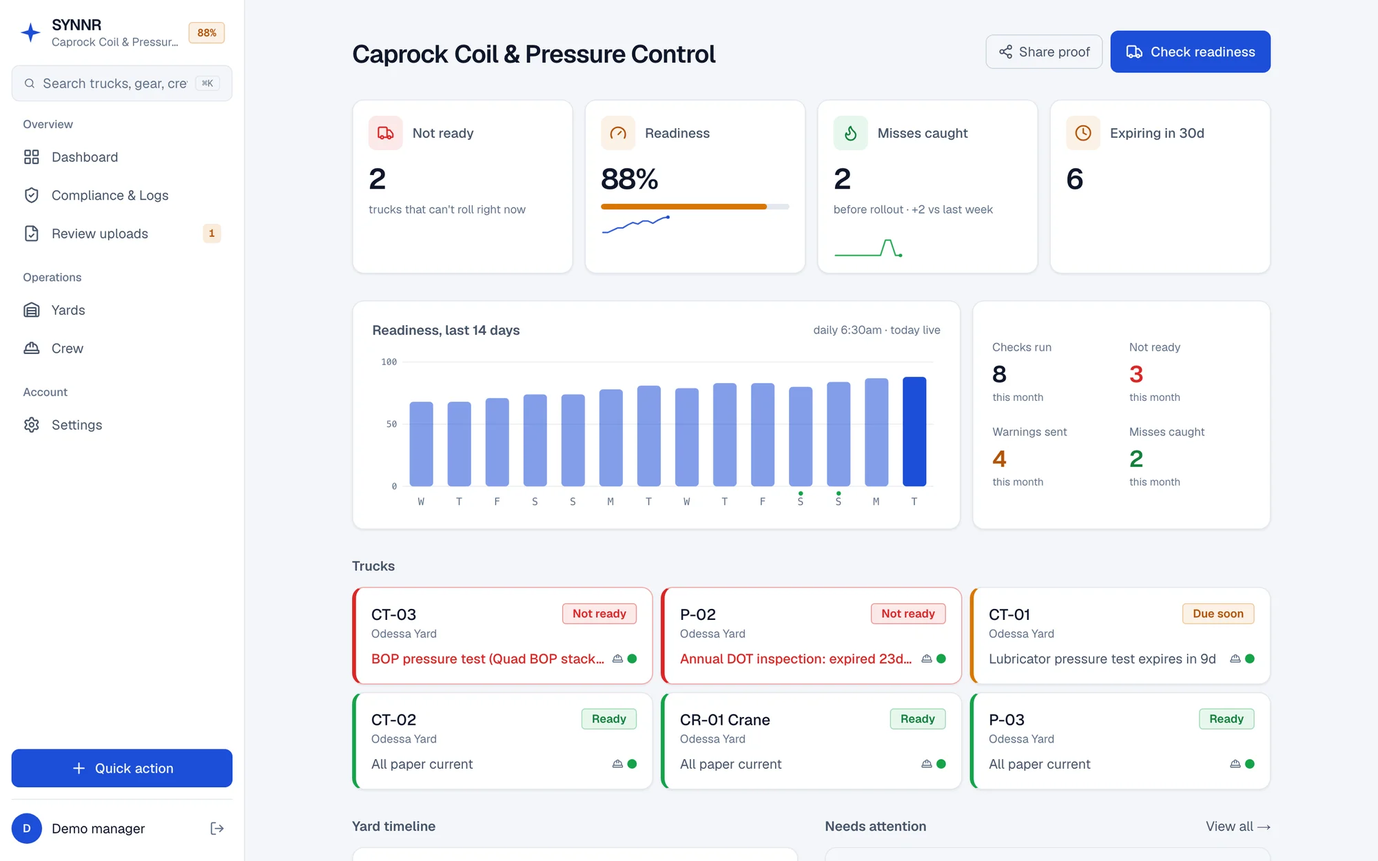
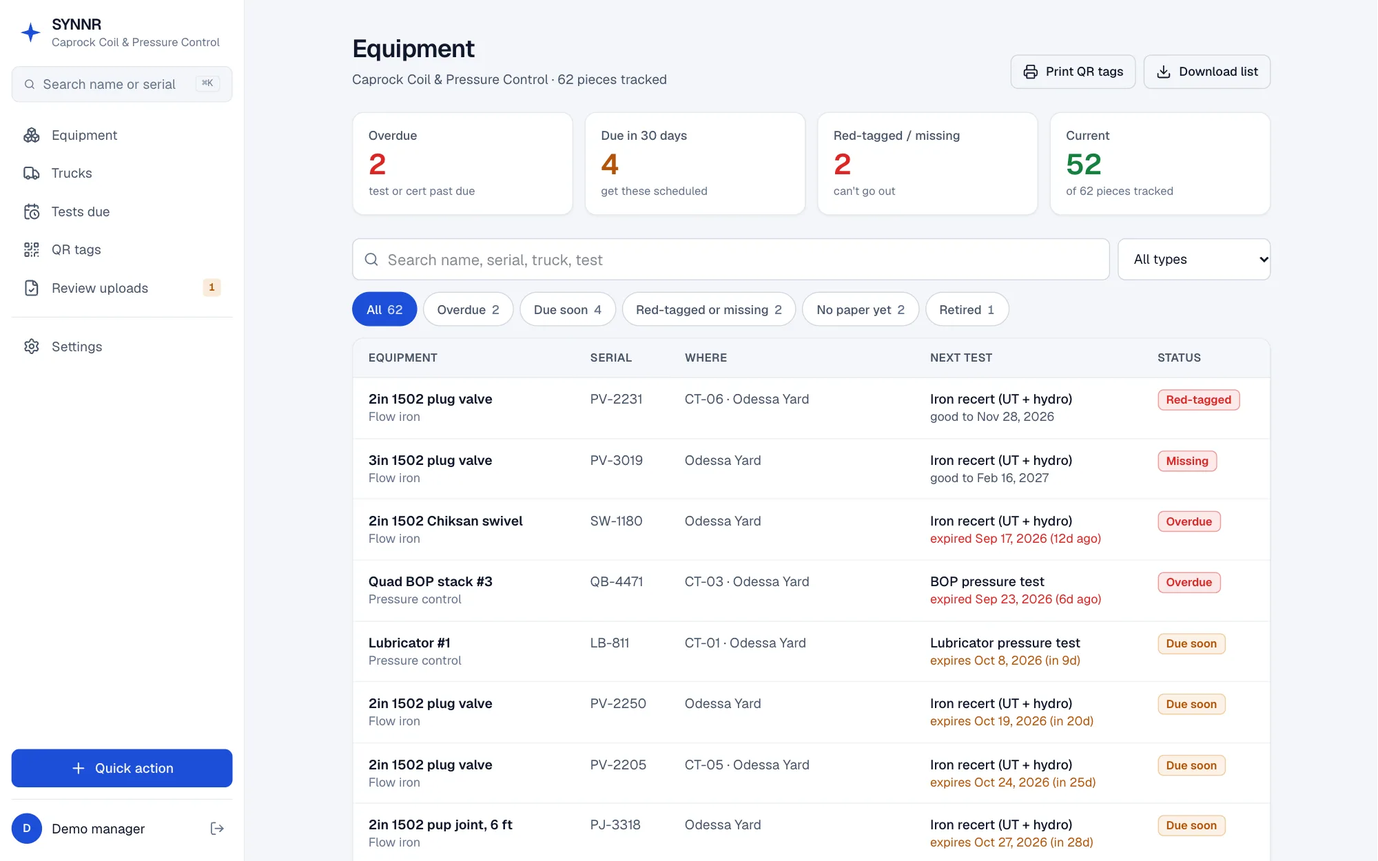
feat: marketing, demo, and share image say equipment, new screenshots
Homepage, one-pager, demo page, site metadata, and the share image now sell
equipment test tracking: every piece of iron with its serial, where it is,
its next test, QR tags, and move history. No crew cards anywhere.
New app screenshots of the equipment list. Import example is iron.
Tag page names the exact lapse.

diff --git a/app/marketing-html.ts b/app/marketing-html.ts
@@ -1,7 +1,8 @@
 import { OWNER_PHONE, OWNER_PHONE_TEL } from "@/lib/contact";
 
-// SYNNR homepage. One product (cert tracking that prevents NPT); readiness
-// checks, gear last-seen, and proof links ride along at the same price.
+// SYNNR homepage. One product: equipment test tracking that prevents NPT.
+// Every piece of iron, its serial, where it is, and its next test; QR tags,
+// move history, truck checks, and proof links ride along at the same price.
 // Navy top with the real app in a laptop and phone, light sections below.
 // Real screenshots only (public/screens, shot from /shot). The phone number
 // shows in the nav, the hero button, the founder note, the closing band, and
@@ -14,6 +15,8 @@ const ICON = {
   pin: `<svg viewBox="0 0 24 24" fill="none" stroke="currentColor" stroke-width="2" stroke-linecap="round" stroke-linejoin="round" aria-hidden="true"><path d="M20 10c0 4.99-5.54 10.19-7.4 11.8a1 1 0 0 1-1.2 0C9.54 20.19 4 14.99 4 10a8 8 0 0 1 16 0"/><circle cx="12" cy="10" r="3"/></svg>`,
   link: `<svg viewBox="0 0 24 24" fill="none" stroke="currentColor" stroke-width="2" stroke-linecap="round" stroke-linejoin="round" aria-hidden="true"><path d="M10 13a5 5 0 0 0 7.54.54l3-3a5 5 0 0 0-7.07-7.07l-1.72 1.71"/><path d="M14 11a5 5 0 0 0-7.54-.54l-3 3a5 5 0 0 0 7.07 7.07l1.71-1.71"/></svg>`,
   camera: `<svg viewBox="0 0 24 24" fill="none" stroke="currentColor" stroke-width="2" stroke-linecap="round" stroke-linejoin="round" aria-hidden="true"><path d="M14.5 4h-5L7 7H4a2 2 0 0 0-2 2v9a2 2 0 0 0 2 2h16a2 2 0 0 0 2-2V9a2 2 0 0 0-2-2h-3l-2.5-3z"/><circle cx="12" cy="13" r="3"/></svg>`,
+  qr: `<svg viewBox="0 0 24 24" fill="none" stroke="currentColor" stroke-width="2" stroke-linecap="round" stroke-linejoin="round" aria-hidden="true"><rect width="5" height="5" x="3" y="3" rx="1"/><rect width="5" height="5" x="16" y="3" rx="1"/><rect width="5" height="5" x="3" y="16" rx="1"/><path d="M21 16h-3a2 2 0 0 0-2 2v3"/><path d="M21 21v.01"/><path d="M12 7v3a2 2 0 0 1-2 2H7"/><path d="M3 12h.01"/><path d="M12 3h.01"/><path d="M12 16v.01"/><path d="M16 12h1"/><path d="M21 12v.01"/><path d="M12 21v-1"/></svg>`,
+  download: `<svg viewBox="0 0 24 24" fill="none" stroke="currentColor" stroke-width="2" stroke-linecap="round" stroke-linejoin="round" aria-hidden="true"><path d="M21 15v4a2 2 0 0 1-2 2H5a2 2 0 0 1-2-2v-4"/><path d="m7 10 5 5 5-5"/><path d="M12 15V3"/></svg>`,
   shield: `<svg viewBox="0 0 24 24" fill="none" stroke="currentColor" stroke-width="2" stroke-linecap="round" stroke-linejoin="round" aria-hidden="true"><path d="M20 13c0 5-3.5 7.5-7.66 8.95a1 1 0 0 1-.67-.01C7.5 20.5 4 18 4 13V6a1 1 0 0 1 1-1c2 0 4.5-1.2 6.24-2.72a1.17 1.17 0 0 1 1.52 0C14.51 3.81 17 5 19 5a1 1 0 0 1 1 1z"/></svg>`,
 };
 
@@ -55,26 +58,26 @@ export const MARKETING_HTML = `
 <section class="x-hero band-navy">
   <div class="container x-hero-grid">
     <div class="x-hero-copy">
-      <p class="x-kicker">Cert tracking for oilfield service yards</p>
+      <p class="x-kicker">Equipment test tracking for oilfield service yards</p>
       <h1>An expired lubricator cert cost us $8,000 on a major's location.</h1>
-      <p class="x-lede">Nobody knew until the company man checked the paper and turned the crew around at the gate. SYNNR watches every cert, DOT date, and crew card in your yard so that never happens again.</p>
+      <p class="x-lede">Nobody knew until the company man checked the paper and turned the crew around at the gate. SYNNR keeps every piece of iron in your yard on one list, with its serial, where it is, and when its next test is due, so that never happens again.</p>
       <div class="x-cta">
         <a href="/demo" class="btn btn-primary">Open the live demo</a>
         <a href="${OWNER_PHONE_TEL}" class="btn btn-ghost">Call or text ${OWNER_PHONE}</a>
       </div>
-      <p class="x-note">The demo is the real app loaded with made-up trucks. No signup, no card.</p>
+      <p class="x-note">The demo is the real app loaded with a made-up yard. No signup, no card.</p>
     </div>
     <div class="x-devices">
       <div class="x-laptop">
         <div class="x-laptop-screen">
           <img src="/screens/app-desktop.webp" width="2000" height="1250"
-            alt="SYNNR dashboard: two trucks not ready, readiness at 88%, a 14-day chart, and the truck board with CT-03 in red" fetchpriority="high"/>
+            alt="SYNNR equipment list: 62 pieces of iron with serials, where each one is, its next test, and a status. Two overdue, two red-tagged or missing." fetchpriority="high"/>
         </div>
         <div class="x-laptop-base"></div>
       </div>
       <div class="x-phone">
         <img src="/screens/app-phone.webp" width="750" height="1624"
-          alt="The same yard on a phone: 2 units can't roll, with a button to fix CT-03"/>
+          alt="The same equipment list on a phone, red-tagged plug valve on top"/>
       </div>
     </div>
   </div>
@@ -90,7 +93,7 @@ export const MARKETING_HTML = `
       <div class="x-card x-miss"><span class="x-ic x-ic-red">${ICON.alert}</span><div><h3>Expired lubricator cert on a major's location</h3><p>$8,000 in NPT and the crew turned around at the gate.</p></div></div>
       <div class="x-card x-miss"><span class="x-ic x-ic-red">${ICON.alert}</span><div><h3>BOP pressure test lapsed, found on location</h3><p>A $10,000+ NPT day.</p></div></div>
       <div class="x-card x-miss"><span class="x-ic x-ic-red">${ICON.alert}</span><div><h3>Expired DOT sticker</h3><p>Truck sidelined, job rescheduled, and a hotshot bill on top.</p></div></div>
-      <div class="x-card x-miss"><span class="x-ic x-ic-red">${ICON.alert}</span><div><h3>One hand's H2S card expired</h3><p>The whole crew got sent home.</p></div></div>
+      <div class="x-card x-miss"><span class="x-ic x-ic-red">${ICON.alert}</span><div><h3>Plug valve past its recert, out in the basket</h3><p>The operator's inspector pulls it on location and you wait on a hotshot.</p></div></div>
     </div>
   </div>
 </section>
@@ -100,29 +103,30 @@ export const MARKETING_HTML = `
     <div class="x-split">
       <div>
         <p class="x-kicker x-kicker-blue">The product</p>
-        <h2 class="x-h2">Every expiration date in your yard, on one list</h2>
-        <p class="x-body">BOP and pressure tests, annual DOT, registrations, H2S, well control, CDLs, and medical cards all go on one register. Before anything lapses, an email goes to the people you pick for that yard, like the foreman who rolls the trucks.</p>
-        <p class="x-body">If something does lapse, that truck reads <b>NOT READY</b> until the record is fixed. There is no override button.</p>
+        <h2 class="x-h2">Every piece of iron, on one list</h2>
+        <p class="x-body">BOP stacks, lubricators, plug valves, swivels, pup joints, reels, and the trucks they ride on. Each piece has its serial, where it is right now, and every test and cert with its date. Before anything comes due, an email goes to the people you pick for that yard.</p>
+        <p class="x-body">If a piece lapses or gets red-tagged, the truck it's on reads <b>NOT READY</b> until it's fixed. There is no override button.</p>
       </div>
       <div class="x-card x-proofcard">
         <span class="x-ic x-ic-blue">${ICON.camera}</span>
         <h3>Nobody fixes a record by typing a new date</h3>
-        <p>A hand takes a photo of the new cert, and SYNNR reads it before anything turns green:</p>
+        <p>Someone takes a photo of the new cert, and SYNNR reads it before anything turns green:</p>
         <ul class="x-checks">
           <li>${ICON.check}<span>The expiration date has to be printed on the paper</span></li>
-          <li>${ICON.check}<span>The hand's name has to be on their card</span></li>
-          <li>${ICON.check}<span>The serial has to be on the gear's cert</span></li>
-          <li>${ICON.check}<span>One photo can only clear one thing</span></li>
+          <li>${ICON.check}<span>The serial on the cert has to match the iron</span></li>
+          <li>${ICON.check}<span>It has to be the right kind of test</span></li>
+          <li>${ICON.check}<span>One photo can only clear one piece</span></li>
         </ul>
-        <p class="x-fine">If it all matches, the truck goes green. If it doesn't, it stays red until a manager looks at the photo.</p>
+        <p class="x-fine">If it all matches, the piece goes green. If it doesn't, it stays red until a manager looks at the photo.</p>
       </div>
     </div>
 
     <h3 class="x-h3">Also included at the same price</h3>
-    <div class="x-grid x-grid-3">
-      <div class="x-card"><span class="x-ic x-ic-blue">${ICON.truck}</span><h3>Readiness check</h3><p>Run a truck against the job date before it leaves. If anything on it or its crew is out of date, it says what.</p></div>
-      <div class="x-card"><span class="x-ic x-ic-blue">${ICON.pin}</span><h3>Gear last-seen</h3><p>Where each piece was last seen, who said so, and how long ago.</p></div>
-      <div class="x-card"><span class="x-ic x-ic-blue">${ICON.link}</span><h3>Proof links</h3><p>A live, read-only page you send the operator instead of a binder.</p></div>
+    <div class="x-grid x-grid-2">
+      <div class="x-card"><span class="x-ic x-ic-blue">${ICON.qr}</span><h3>QR tags</h3><p>Print a tag for every piece. Anyone who scans it with a phone camera sees the serial, the test dates, and the cert. No app, no login.</p></div>
+      <div class="x-card"><span class="x-ic x-ic-blue">${ICON.pin}</span><h3>Where it is, and where it's been</h3><p>Move iron between trucks and the yard in two taps. Every move is saved with who did it and when, and nobody can edit that history.</p></div>
+      <div class="x-card"><span class="x-ic x-ic-blue">${ICON.truck}</span><h3>Truck check</h3><p>Run a truck against the job date before it leaves. If anything on it is out of test or red-tagged, it says what.</p></div>
+      <div class="x-card"><span class="x-ic x-ic-blue">${ICON.link}</span><h3>Proof links and a due list</h3><p>Send the operator a live page instead of a binder. Download what's coming due as a spreadsheet for your test company.</p></div>
     </div>
   </div>
 </section>
@@ -131,12 +135,12 @@ export const MARKETING_HTML = `
   <div class="container">
     <div class="x-head">
       <h2 class="x-h2">This is the actual app</h2>
-      <p class="x-sub">Screenshots of the real thing, not mockups. CT-03 is red because its BOP pressure test expired six days ago. It stays red until somebody uploads the new cert.</p>
+      <p class="x-sub">Screenshots of the real thing, not mockups. The BOP stack on CT-03 is six days past its pressure test, so CT-03 can't roll. It stays that way until somebody uploads the new cert.</p>
     </div>
     <div class="x-browser">
       <div class="x-browser-bar"><i></i><i></i><i></i><span>synnr.io/app</span></div>
       <img src="/screens/app-desktop.webp" width="2000" height="1250" loading="lazy"
-        alt="SYNNR dashboard: readiness numbers, a 14-day chart, and the truck board with CT-03 marked NOT READY"/>
+        alt="SYNNR equipment list: each piece with its serial, where it is, its next test, and a status"/>
     </div>
     <div class="x-cta x-cta-center">
       <a href="/demo" class="btn btn-primary">Open the live demo</a>
@@ -150,9 +154,9 @@ export const MARKETING_HTML = `
       <h2 class="x-h2">Getting set up</h2>
     </div>
     <div class="x-grid x-grid-3">
-      <div class="x-card x-step"><span class="x-num">1</span><p>Hand me your binder or spreadsheet. We load your trucks, gear, crew, and every date in one afternoon.</p></div>
-      <div class="x-card x-step"><span class="x-num">2</span><p>Pick who gets the alerts for each yard.</p></div>
-      <div class="x-card x-step"><span class="x-num">3</span><p>Before a truck rolls, run the readiness check from a phone. If something is off, it tells you what.</p></div>
+      <div class="x-card x-step"><span class="x-num">1</span><p>Hand me your spreadsheet or binder. We load your iron, the serials, and every test date in one afternoon.</p></div>
+      <div class="x-card x-step"><span class="x-num">2</span><p>Print the QR tags and stick one on each piece.</p></div>
+      <div class="x-card x-step"><span class="x-num">3</span><p>Pick who gets the alerts. Before anything comes due, they hear about it.</p></div>
     </div>
   </div>
 </section>
@@ -194,8 +198,8 @@ export const MARKETING_HTML = `
 
 <section class="x-close band-navy">
   <div class="container">
-    <h2 class="x-h2">See your yard in SYNNR</h2>
-    <p class="x-lede">Open the demo on your phone right now, or call and I'll load your trucks.</p>
+    <h2 class="x-h2">See your iron in SYNNR</h2>
+    <p class="x-lede">Open the demo on your phone right now, or call and I'll load your yard.</p>
     <div class="x-cta x-cta-center">
       <a href="/demo" class="btn btn-primary">Open the live demo</a>
       <a href="${OWNER_PHONE_TEL}" class="btn btn-ghost">Call or text ${OWNER_PHONE}</a>

diff --git a/app/demo/page.tsx b/app/demo/page.tsx
@@ -32,11 +32,12 @@ export default async function DemoPage({ searchParams }: { searchParams: Promise
         <div className="mt-8 flex flex-col gap-5">
           <h1 className="text-3xl font-semibold leading-tight tracking-tight sm:text-4xl">Try SYNNR with a demo yard</h1>
           <p className="text-base leading-relaxed text-ink-dim">
-            Tap the button and you get your own copy of a made-up Odessa coil tubing company: 20 trucks,
-            45 hands, and a few problems already on the board. CT‑03 has a dead BOP test, P‑02&apos;s annual
-            DOT lapsed, and one operator&apos;s H2S card expired yesterday. A hand already sent a photo of a new
-            BOP cert with a date that isn&apos;t on the paper, so it&apos;s waiting on you under Review uploads. Run a
-            readiness check, open the red trucks, and see what it takes to turn one green.
+            Tap the button and you get your own copy of a made-up Odessa coil tubing company: 62 pieces of
+            iron on 16 trucks and trailers, and a few problems already on the list. The BOP stack on CT‑03 is
+            past its pressure test, a plug valve on CT‑06 got red-tagged after UT, and another one has been
+            missing since a rig-down. A hand already sent a photo of a new BOP cert with a date that isn&apos;t on
+            the paper, so it&apos;s waiting on you under Review uploads. Open a piece of iron, look at its QR tag
+            and where it&apos;s been, and see what it takes to turn it green.
           </p>
           <p className="text-base leading-relaxed text-ink-dim">
             Nobody else sees your copy, and it deletes itself after 24 hours.
@@ -80,19 +81,19 @@ export default async function DemoPage({ searchParams }: { searchParams: Promise
             <span className="flex h-10 w-10 items-center justify-center rounded-xl border border-line bg-coal"><Smartphone className="h-5 w-5 text-ink-dim" /></span>
             <h2 className="text-lg font-semibold">Works on a phone</h2>
             <p className="text-sm leading-relaxed text-ink-dim">
-              The same yard on a phone. A red truck shows what&apos;s wrong and a button to fix it. You can
-              open the demo on your phone too.
+              Every piece of iron on your phone, worst first. Tap one to see its paper, its QR tag, and
+              where it&apos;s been. You can open the demo on your phone too.
             </p>
-            <Image src="/screens/app-phone.webp" alt="SYNNR on a phone: 2 units can't roll, with a button to fix CT-03"
+            <Image src="/screens/app-phone.webp" alt="SYNNR on a phone: the equipment list with a red-tagged plug valve on top"
               width={750} height={1624} className="mx-auto mt-2 w-40 rounded-[22px] border-[5px] border-slate-900 shadow-lg" />
           </div>
         </div>
 
         <div id="your-yard" className="mt-12 flex flex-col items-center gap-3 rounded-2xl border border-line bg-surface p-6 text-center sm:p-8">
-          <h2 className="text-xl font-semibold">Want this set up with your trucks?</h2>
+          <h2 className="text-xl font-semibold">Want this set up with your iron?</h2>
           <p className="max-w-md text-sm leading-relaxed text-ink-dim">
             Setup is free for the first 10 yards. Bring your binder or spreadsheets and we&apos;ll load your
-            yard together in one afternoon. After that it&apos;s $500 a yard per month. No contract, and never
+            iron, serials, and test dates together in one afternoon. After that it&apos;s $500 a yard per month. No contract, and never
             per-seat.
           </p>
           <DemoLeadForm />

diff --git a/app/layout.tsx b/app/layout.tsx
@@ -25,30 +25,30 @@ export const metadata: Metadata = {
   // point at the serving host so search engines get one consistent signal.
   metadataBase: new URL("https://www.synnr.io"),
   title: {
-    default: "SYNNR: cert tracking for oilfield service yards",
+    default: "SYNNR: equipment test tracking for oilfield service yards",
     template: "%s",
   },
   description:
-    "SYNNR tracks every cert, DOT date, and crew card in an oilfield service yard and warns you before anything lapses, so a truck never gets turned around at the gate. $500 per yard, per month. Never per-seat.",
+    "SYNNR keeps every piece of iron in an oilfield service yard on one list, with its serial, where it is, and when its next test is due. QR tags, move history, and a warning before anything lapses. $500 per yard, per month. Never per-seat.",
   keywords: [
-    "SYNNR", "yard readiness", "equipment readiness", "cert tracking", "cert expiration alerts",
-    "crew card tracking", "equipment tracking", "where is my equipment", "oilfield service software", "wireline", "coil tubing", "cementing", "BOP testing",
-    "BOP recertification", "crew certs", "H2S certification", "well control", "DOT inspection",
+    "SYNNR", "iron tracking", "pressure iron tracking", "flow iron recertification", "treating iron", "equipment test tracking",
+    "QR equipment tags", "NDT recertification tracking", "equipment tracking", "where is my equipment", "oilfield service software",
+    "wireline", "coil tubing", "cementing", "BOP testing", "BOP recertification", "lubricator pressure test", "DOT inspection",
     "Permian Basin", "Midland", "Odessa", "service shop operations", "oilfield compliance",
   ],
   openGraph: {
     type: "website",
     siteName: "SYNNR",
-    title: "SYNNR: cert tracking for oilfield service yards",
+    title: "SYNNR: equipment test tracking for oilfield service yards",
     description:
-      "Every cert, DOT date, and crew card in your yard on one list, with a warning before anything lapses. $500 per yard, per month.",
+      "Every piece of iron in your yard on one list, with its serial, where it is, and its next test. A warning before anything lapses. $500 per yard, per month.",
     url: "https://www.synnr.io",
   },
   twitter: {
     card: "summary_large_image",
-    title: "SYNNR: cert tracking for oilfield service yards",
+    title: "SYNNR: equipment test tracking for oilfield service yards",
     description:
-      "Every cert, DOT date, and crew card in your yard on one list, with a warning before anything lapses. $500 per yard, per month.",
+      "Every piece of iron in your yard on one list, with its serial, where it is, and its next test. A warning before anything lapses. $500 per yard, per month.",
   },
 };
 
@@ -72,7 +72,7 @@ export default function RootLayout({
               operatingSystem: "Web",
               url: "https://www.synnr.io",
               description:
-                "Cert tracking for oilfield service yards. Every cert, DOT date, and crew card on one list, with a warning before anything lapses and a readiness check before a truck rolls.",
+                "Equipment test tracking for oilfield service yards. Every piece of iron on one list with its serial, location, and next test, QR tags, and a warning before anything lapses.",
               offers: { "@type": "Offer", price: "500", priceCurrency: "USD", description: "Per yard, per month" },
               publisher: {
                 "@type": "Organization",

diff --git a/app/onepager/page.tsx b/app/onepager/page.tsx
@@ -63,7 +63,7 @@ export default function OnePager() {
 
       <div className="op-sheet">
         <div className="op-head">
-          <div className="op-brand">SYNNR<small>Yard readiness · Permian Basin</small></div>
+          <div className="op-brand">SYNNR<small>Equipment test tracking · Permian Basin</small></div>
           <div className="op-contact">
             <b>Caden Cain</b>, founder<br />
             Call or text {OWNER_PHONE}
@@ -74,19 +74,19 @@ export default function OnePager() {
 
         <p className="op-p">
           Nobody knew until the company man checked the paper and turned the crew around at the gate.
-          SYNNR watches every cert, inspection, DOT date, and crew card in your yard and emails the right
-          person before anything lapses. If something does lapse, that truck reads NOT READY until the
-          record is fixed.
+          SYNNR keeps every piece of iron in your yard on one list, with its serial, where it is, and when
+          its next test is due, and emails the right person before anything lapses. If something does
+          lapse, the truck it rides on reads NOT READY until the record is fixed.
         </p>
 
         <div className="op-cols">
           <div className="op-box">
             <h3>What it catches</h3>
             <ul>
-              <li>BOP &amp; pressure tests, annual DOT, registrations</li>
-              <li>Crew cards: H2S, well control, CDL, medicals</li>
-              <li>A readiness check with no override button</li>
-              <li>Where the gear was last seen, and who touched it</li>
+              <li>BOP and lubricator tests, iron recerts (UT + hydro), annual DOT</li>
+              <li>A QR tag on every piece: scan it, see its tests and cert</li>
+              <li>Where each piece is, and every move with who and when</li>
+              <li>A truck check with no override button</li>
               <li>A live proof link to send the operator instead of a binder</li>
             </ul>
           </div>
@@ -94,7 +94,7 @@ export default function OnePager() {
             <h3>The math</h3>
             <div style={{ fontSize: "13.5px", lineHeight: 1.65 }}>
               One lubricator miss is 16 months of SYNNR. It&apos;s a flat price per yard and never
-              per-seat, so adding crew or trucks costs nothing. No contract, cancel anytime, and your
+              per-seat, so adding people or iron costs nothing. No contract, cancel anytime, and your
               data stays yours.
             </div>
           </div>

diff --git a/app/app/import/import-client.tsx b/app/app/import/import-client.tsx
@@ -7,11 +7,11 @@ import { Card } from "@/components/ui/card";
 import { Button } from "@/components/ui/button";
 import { previewImport, commitImport, type ImportResult } from "./actions";
 
-const SAMPLE = `unit,unit_type,asset,category,crew,item,kind,issued,expires
-Rig 4,service rig,,,,Annual DOT inspection,inspection,2026-02-01,2027-02-01
-Rig 4,service rig,BOP #3,pressure control,,BOP test,test,2026-01-15,2026-07-15
-Truck 12,truck,,,,DOT sticker,dot_sticker,2026-03-01,2027-03-01
-,,,,Jerry Boles,H2S Clear,cert,2026-05-01,2027-05-01`;
+const SAMPLE = `unit,unit_type,asset,category,item,kind,issued,expires
+CT-04,coil tubing unit,Quad BOP stack #4,pressure control,BOP pressure test,test,2026-01-15,2027-01-15
+CT-04,coil tubing unit,Lubricator #1,pressure control,Lubricator pressure test,test,2026-03-02,2027-03-02
+CT-04,coil tubing unit,2in 1502 plug valve PV-2204,flow iron,Iron recert (UT + hydro),test,2026-04-10,2027-04-10
+CT-04,coil tubing unit,,,Annual DOT inspection,inspection,2026-02-01,2027-02-01`;
 
 export default function ImportClient({ yards }: { yards: { id: string; name: string }[] }) {
   const router = useRouter();
@@ -108,8 +108,8 @@ export default function ImportClient({ yards }: { yards: { id: string; name: str
           <textarea value={csv} onChange={(e) => { setCsv(e.target.value); setFileName(""); }} rows={10}
             className="rounded-lg border border-line-2 bg-coal px-3 py-2 font-mono text-xs text-ink outline-none focus:border-bone" />
           <span className="text-xs text-ink-faint">
-            Columns (any order): <span className="font-mono">unit, unit_type, asset, category, crew, item, kind, issued, expires</span>.
-            Crew rows: leave unit blank, fill <span className="font-mono">crew</span>. Importing again updates dates without making duplicates.
+            Columns (any order): <span className="font-mono">unit, unit_type, asset, category, item, kind, issued, expires</span>.
+            Each piece of iron goes under the truck it rides on. Leave asset blank for the truck&apos;s own paper. Importing again updates dates without making duplicates.
             Working in Excel? File → Save As → CSV, then drop the file above.
           </span>
         </label>

diff --git a/app/t/[token]/page.tsx b/app/t/[token]/page.tsx
@@ -99,7 +99,7 @@ export default async function TagPage({ params }: { params: Promise<{ token: str
     : a.status === "out_of_service" ? { title: "Red-tagged. Do not use.", tone: "border-red-500/40 bg-red-500/10 text-red-400", note: "The shop has pulled this from service." }
     : a.status === "missing" ? { title: "Flagged missing", tone: "border-red-500/40 bg-red-500/10 text-red-400", note: "The shop has this marked missing. Let them know where it is." }
     : items.length === 0 ? { title: "No test on file", tone: "border-line-2 bg-elevated text-ink-dim", note: "The shop hasn't put this piece's paper in SYNNR yet." }
-    : failing.length ? { title: "Out of test", tone: "border-red-500/40 bg-red-500/10 text-red-400", note: `${failing.length === 1 ? failing[0].i.title + " is" : failing.length + " tests are"} past due or missing a date.` }
+    : failing.length ? { title: "Out of test", tone: "border-red-500/40 bg-red-500/10 text-red-400", note: failing.length === 1 ? `${failing[0].i.title}: ${failing[0].j.detail}.` : `${failing.length} tests are past due or missing a date.` }
     : { title: "Current", tone: "border-emerald-500/40 bg-emerald-500/10 text-emerald-400", note: "Every test and cert on file is current today." };
 
   return (

diff --git a/app/opengraph-image.tsx b/app/opengraph-image.tsx
@@ -25,10 +25,10 @@ export default function OgImage() {
         <div style={{ display: "flex", fontSize: 40, fontWeight: 700, letterSpacing: -1 }}>SYNNR</div>
         <div style={{ display: "flex", flexDirection: "column", gap: 24 }}>
           <div style={{ display: "flex", fontSize: 68, fontWeight: 800, lineHeight: 1.06, letterSpacing: -2, maxWidth: 1000 }}>
-            Every cert in your yard, watched before it lapses.
+            Every piece of iron. Its serial, where it is, its next test.
           </div>
           <div style={{ display: "flex", fontSize: 30, color: "#c3cde3", maxWidth: 1000 }}>
-            BOP tests, DOT dates, and crew cards on one list. The truck reads NOT READY until the paper is fixed.
+            BOP stacks, lubricators, valves, and swivels on one list, with QR tags. A warning before anything lapses.
           </div>
         </div>
         <div style={{ display: "flex", fontSize: 28, color: "#9fb7ff", fontWeight: 600 }}>synnr.io · $500 per yard, per month</div>

diff --git a/app/app/_components/cert-upload.tsx b/app/app/_components/cert-upload.tsx
@@ -302,7 +302,7 @@ export function AddCert({ parentType, parentId, redirectPath, isManager, default
   function clear() { setResult(null); setTitle(""); photo.reset(); }
 
   async function send(force = false) {
-    if (!title.trim()) { photo.setErr("Name the cert first (for example, H2S Clear)."); return; }
+    if (!title.trim()) { photo.setErr("Name the test or cert first (for example, BOP pressure test)."); return; }
     if (!photo.file) { photo.setErr("Take a photo of the cert first."); return; }
     if (!photo.expiration) { photo.setErr("Enter the expiration date printed on the cert."); return; }
     const fd = new FormData();
